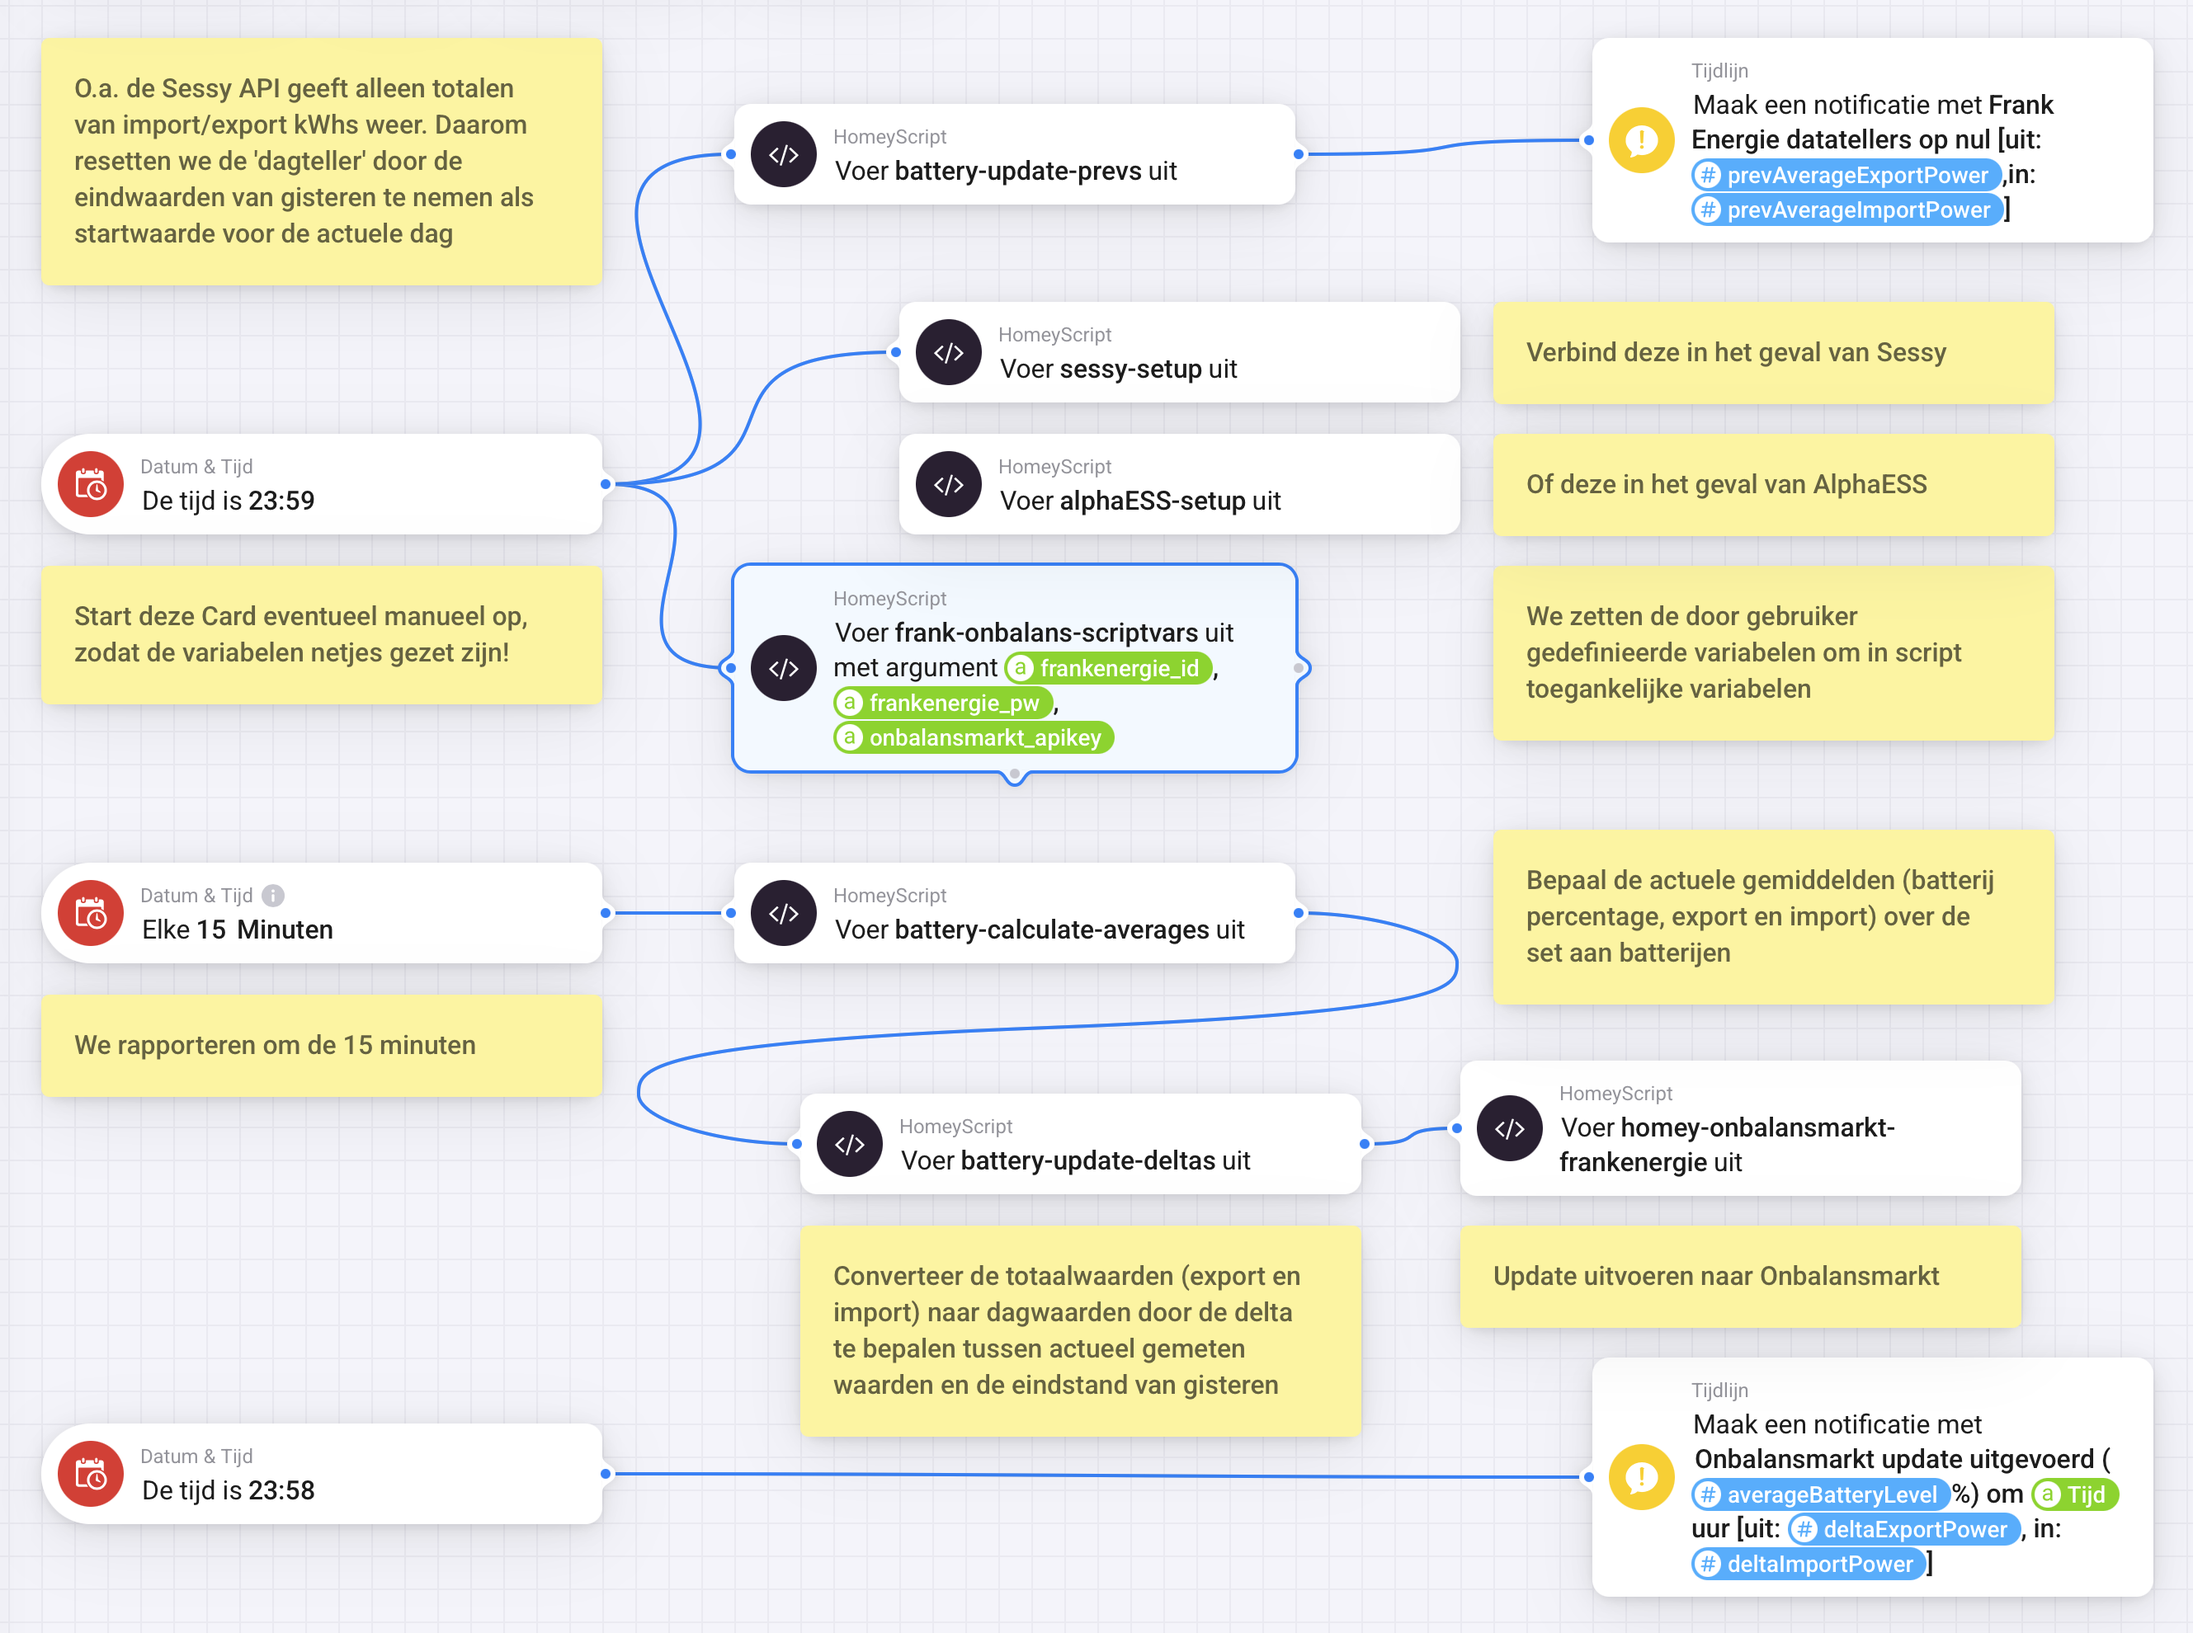
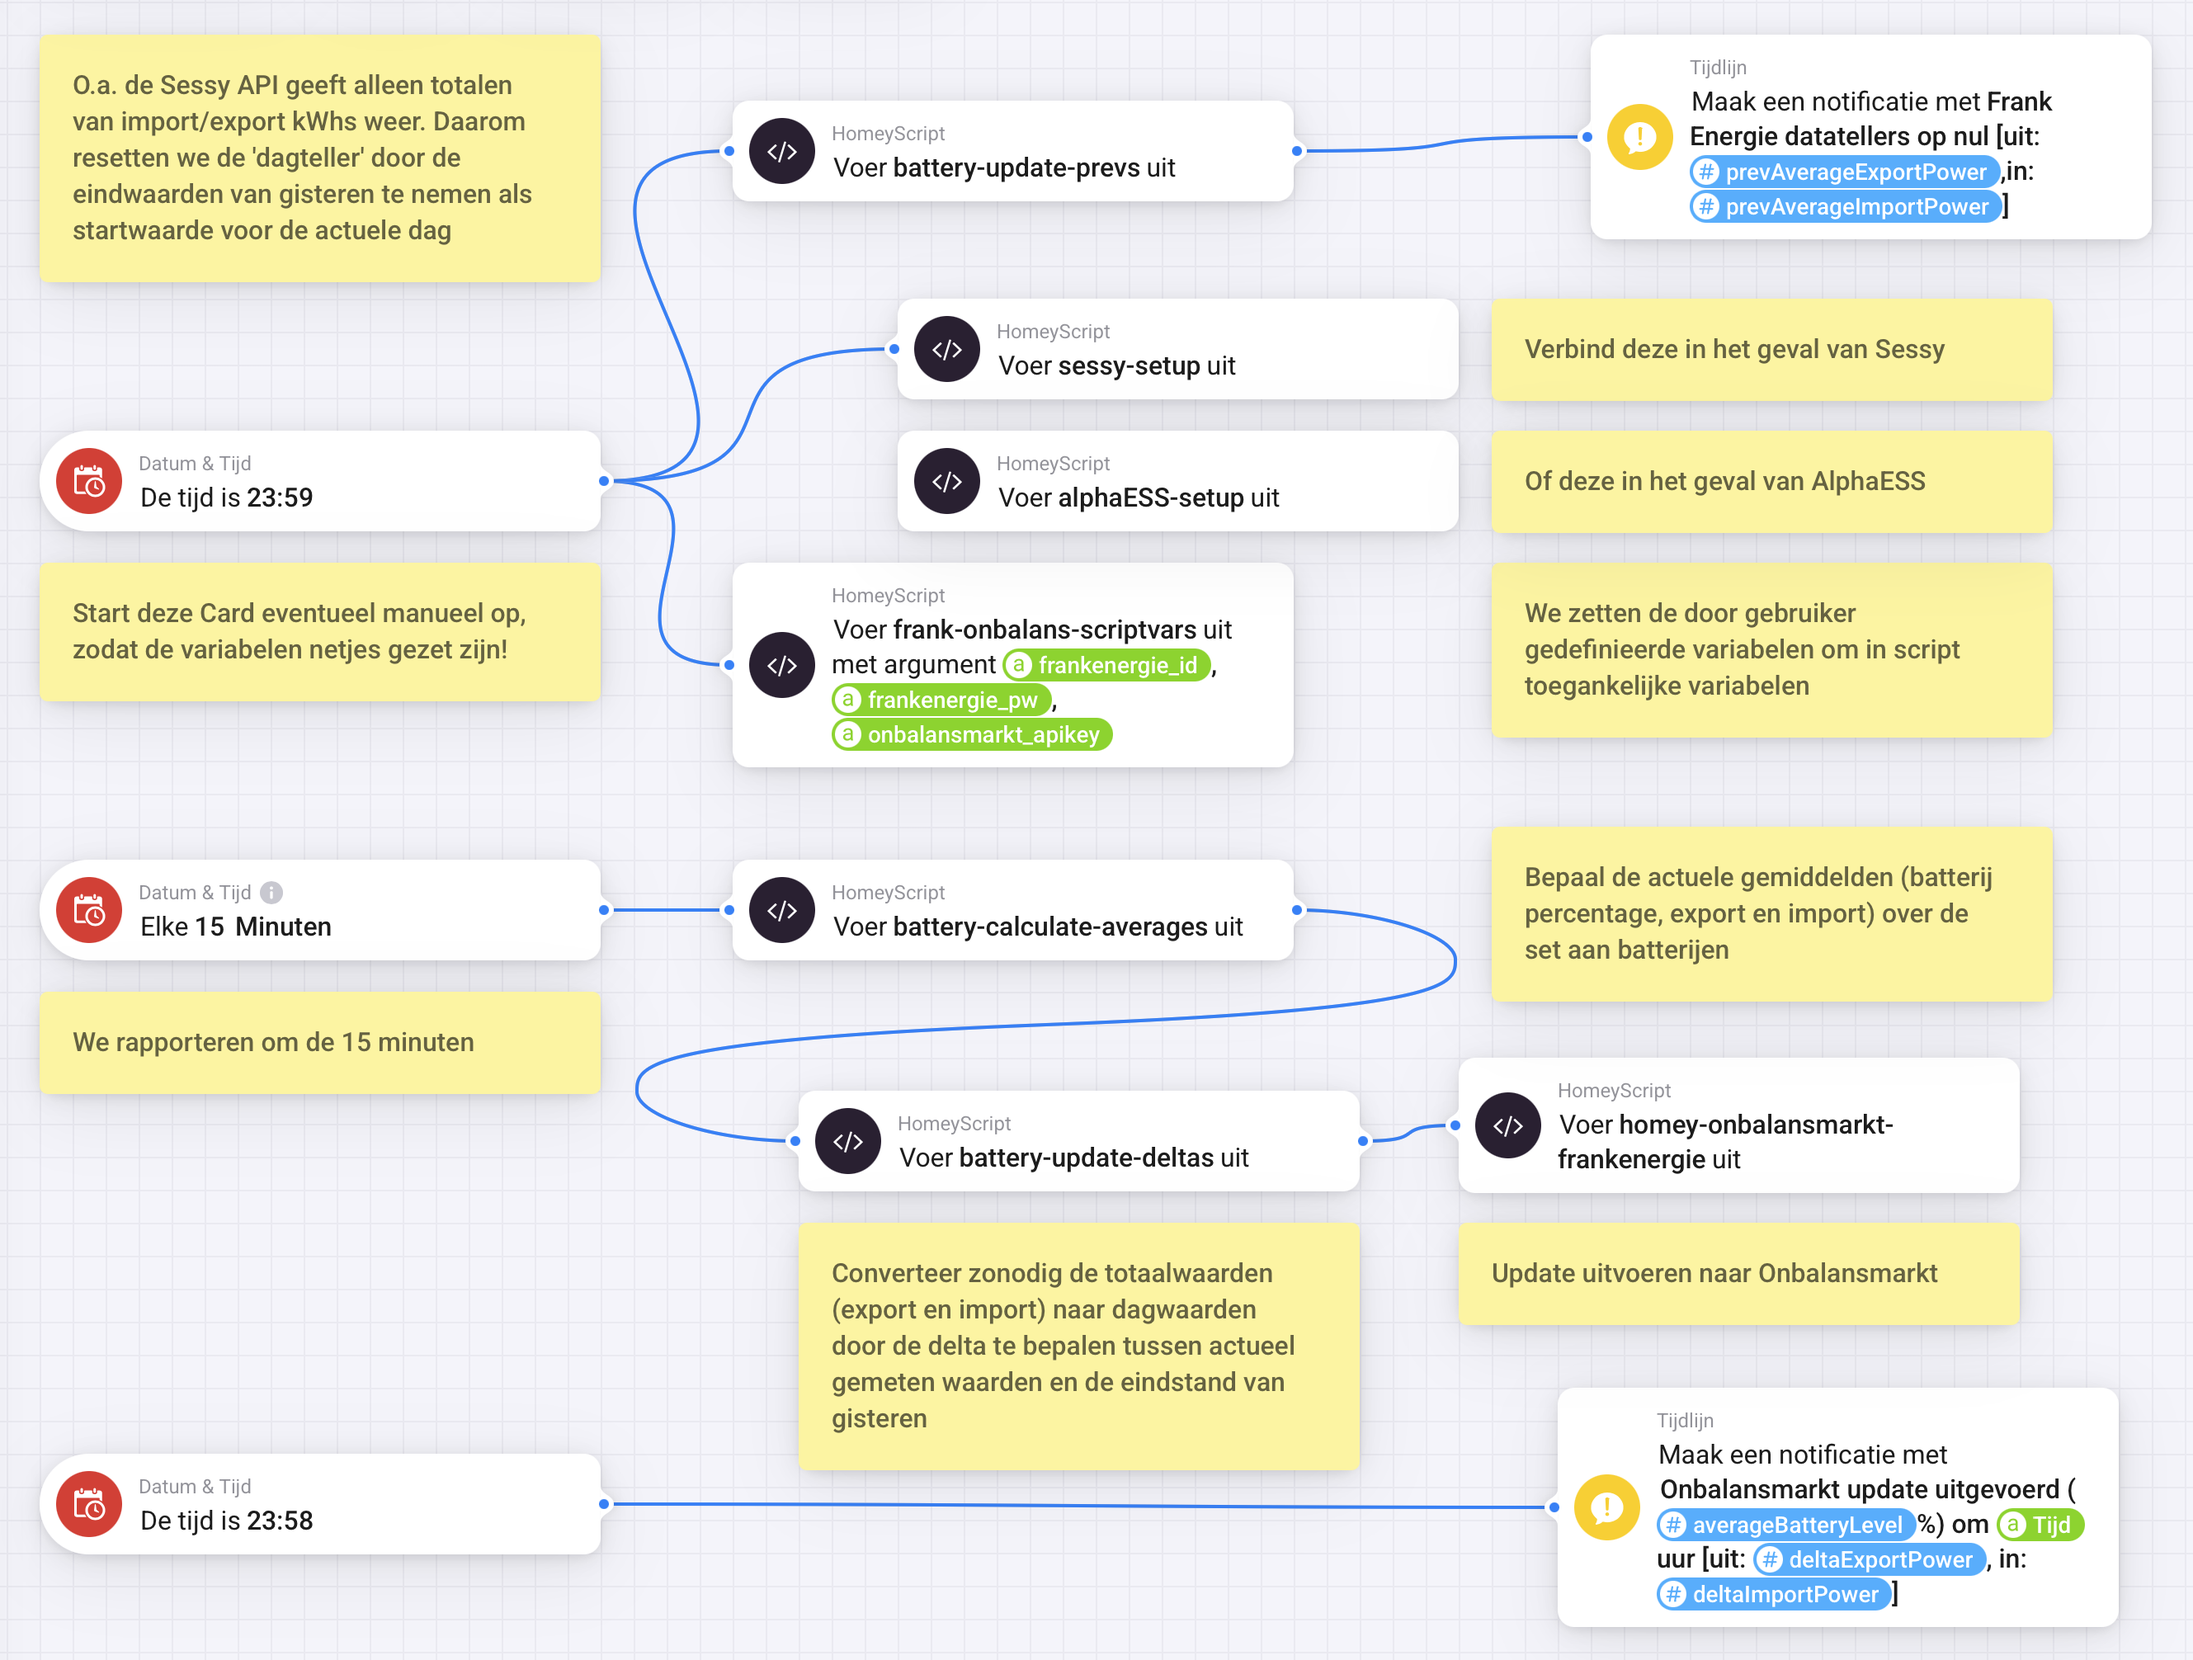
Aanpassingen voor dagtotaal type batterijen
Aanpassingen voor verwerking van zowel thuisbatterijen die met dagtotalen werken of die met grand totals werken (zoals de Sessy)

diff --git a/battery-update-deltas.js b/battery-update-deltas.js
@@ -14,7 +14,7 @@ const averageExportPower = await getVariableValue('averageExportPower', 0);
 const prevAverageImportPower = await getVariableValue('prevAverageImportPower', 0);
 const prevAverageExportPower = await getVariableValue('prevAverageExportPower', 0);
 const averageBatteryLevel = await getVariableValue('averageBatteryLevel', 0);
-
+const battery_delta = await getVariableValue('battery_delta', 'No');
 
 // Log the current values (optional)
 console.log('averageImportPower:', averageImportPower);
@@ -22,14 +22,21 @@ console.log('averageExportPower:', averageExportPower);
 console.log('prevAverageImportPower:', prevAverageImportPower);
 console.log('prevAverageExportPower:', prevAverageExportPower);
 console.log('averageBatteryLevel:', averageBatteryLevel);
+console.log('battery_delta:', battery_delta);
 
+var deltaImportPower = averageImportPower;
+var deltaExportPower = averageExportPower;
 
-const deltaImportPower = averageImportPower - prevAverageImportPower;
-const deltaExportPower = averageExportPower - prevAverageExportPower;
+// batterysystemen zonder dagtotalen passen delta berekening toe
+if (battery_delta == 'Yes') {
+  deltaImportPower -= prevAverageImportPower;
+  deltaExportPower -= prevAverageExportPower
+}
+
 
 // Update delta values
-await setVariableValue('deltaImportPower', Math.round(deltaImportPower) );
-await setVariableValue('deltaExportPower', Math.round(deltaExportPower) );
+await setVariableValue('deltaImportPower', Math.round(deltaImportPower));
+await setVariableValue('deltaExportPower', Math.round(deltaExportPower));
 
 
 // Haal de opgeslagen waarden op en log ze
@@ -43,6 +50,5 @@ console.log('Berekende deltaExportPower:', deltaExportPower);
 console.log(`Opgeslagen gemiddelde deltaImportPower: ${storedDeltaImportPower}`);
 console.log(`Opgeslagen gemiddelde deltaExportPower: ${storedDeltaExportPower}`);
 console.log(`Opgeslagen gemiddelde averageBatteryLevel: ${storedAvarageBatteryLevel}`);
- 
- 
- 
+
+

diff --git a/alphaESS-setup.js b/alphaESS-setup.js
@@ -8,7 +8,7 @@ async function setVariableValue(name, value) {
     await global.set(name, value);
 }
 
-// bepaal de device capabilities per battery systeem
+// bepaal de device capabilities per battery systeem, en of de delta bepaald moet worden
 await setVariableValue('battery_system', 'alpaess');
 console.log('battery_system:', await getVariableValue('battery_system', 'default'));
 
@@ -21,4 +21,5 @@ console.log('battery_export:', await getVariableValue('battery_export', 'default
 await setVariableValue('battery_level', 'measure_battery');
 console.log('battery_level:', await getVariableValue('battery_level', 'default'));
 
-
+await setVariableValue('battery_delta', 'Yes');
+console.log('battery_delta:', await getVariableValue('battery_delta', 'No'));

diff --git a/sessy-setup.js b/sessy-setup.js
@@ -8,7 +8,7 @@ async function setVariableValue(name, value) {
     await global.set(name, value);
 }
 
-// bepaal de device capabilities per battery systeem
+// bepaal de device capabilities per battery systeem, en of de delta bepaald moet worden
 await setVariableValue('battery_system', 'sessy');
 console.log('battery_system:', await getVariableValue('battery_system', 'default'));
 
@@ -21,4 +21,5 @@ console.log('battery_export:', await getVariableValue('battery_export', 'default
 await setVariableValue('battery_level', 'measure_battery');
 console.log('battery_level:', await getVariableValue('battery_level', 'default'));
 
-
+await setVariableValue('battery_delta', 'Yes');
+console.log('battery_delta:', await getVariableValue('battery_delta', 'No'));

diff --git a/README.md b/README.md
@@ -43,17 +43,26 @@ De login/password combinatie kan de gebruiker zelf opvoeren als Homey Flow varia
 De Sessy API (als bijvoorbeeld) levert geen dagtotalen (alleen grand totals). Voor de rapportage per dag is opgelost met een delta gemiddelde te bepalen t.o.v. voorgaande dag.
 Instelbaar welke periode (om de 15 minuten in dit voorbeeld) wordt de API van onbalansmarkt.com gevoed met nieuwe gegevens. 
 
-Op de tijdlijn krijgt de Homey gebruiker een feed te zien van aangeleverde baterijpercentage en de(ont)laad kWhs. Bij de 'teller op nul' notificatie zie je de vorige dag opgeslagen waarden.
+Op de tijdlijn krijgt de Homey gebruiker een feed te zien van aangeleverde baterijpercentage en de naar beneden afgeroden (ont)laad kWhs. Bij de 'teller op nul' notificatie zie je de vorige dag intern opgeslagen waarden.
 
 ![Tijdlijn voorbeeld](./Tijdlijn%20voorbeeld.png)
 
 
-De scripting is relatief eenvoudig aan te passen voor andere batterijsystemen dan Sessy, zoals de AlphaESS.
+De scripting is relatief eenvoudig aan te passen voor andere batterijsystemen dan Sessy, zoals de AlphaESS. Bij batterijsystemen die al voorzien in dagtotalen moet de extra delta verwerking stop op 'No' taan. Voor zover nu na te gaan ontbreken bij Sessy, AlphaESS en SolarEdge StoreEdge kWh ont(laad) totalen.
 Zie daarvoor de scripts sessy-setup.js en alphaESS-setup.js:
 
-| Systeem | Batterij % | kWh laadtotaal | kWh ontlaad totaal | Cycle count | Driver-Id match|
-|---|---|---|---|---|---|
-| Sessy | measure_battery | meter_power.import | meter_power.export | - | sessy |
-| AlphaESS | measure_battery | meter_power.charged | meter_power.discharged | - | alpaess |
-| ZP Nexus | measure_battery | meter_power.daily_import | meter_power.daily_export | cycle_count? | ? 
+| Systeem | Batterij % | kWh laadtotaal | kWh ontlaadtotaal | Driver-Id | Class | delta verwerking |
+|---|---|---|---|---|---|---|
+| Sessy | measure_battery | meter_power.import | meter_power.export | sessy | battery | Yes |
+| AlphaESS | measure_battery | meter_power.charged | meter_power.discharged | alpaess | battery | Yes |
+| ZP Nexus | measure_battery | meter_power.daily_import | meter_power.daily_export |  zonneplan | battery | No |
+| Homevolt | measure_battery | meter_power.imported | meter_power.exported | homevolt-battery | battery | Yes |
+| SolarEdge SigEnergy | measure_battery | meter_power.daily_charge | meter_power.daily_discharge | sigenergy  | solarpanel | No |
+| SolarEdge Solax | measure_battery | meter_power.today_batt_input | meter_power.today_batt_output | solax | solarpanel | No |
+| SolarEdge Wattsonic | measure_battery | meter_power.today_batt_input | meter_power.today_batt_output | wattsonic | solarpanel | No |
+| SolarEdge Sungrow | measure_battery | meter_power.today_batt_input | meter_power.today_batt_output | sungrow | solarpanel | No |
+| SolarEdge Huawei | measure_battery | meter_power.today_batt_input | meter_power.today_batt_output | huawei | solarpanel | No |
+| SolarEdge Growatt | measure_battery | meter_power.today_batt_input | meter_power.today_batt_output | growatt | solarpanel | No |
+| SolarEdge StoreEdge | measure_battery | meter_power.import | meter_power.export | storeedge | solarpanel | Yes |
 
+De aan SolarEdge Modbus geleerde batterijen worden naar verwachting bevraagd via de 'SolarEdge + Growatt TCP modbus' App. Maak je eigen setup script op basis van bovenstaande waarden en vervang in de flow het 'sessy-setup' kaartje met je eigen homeyscript variant.
